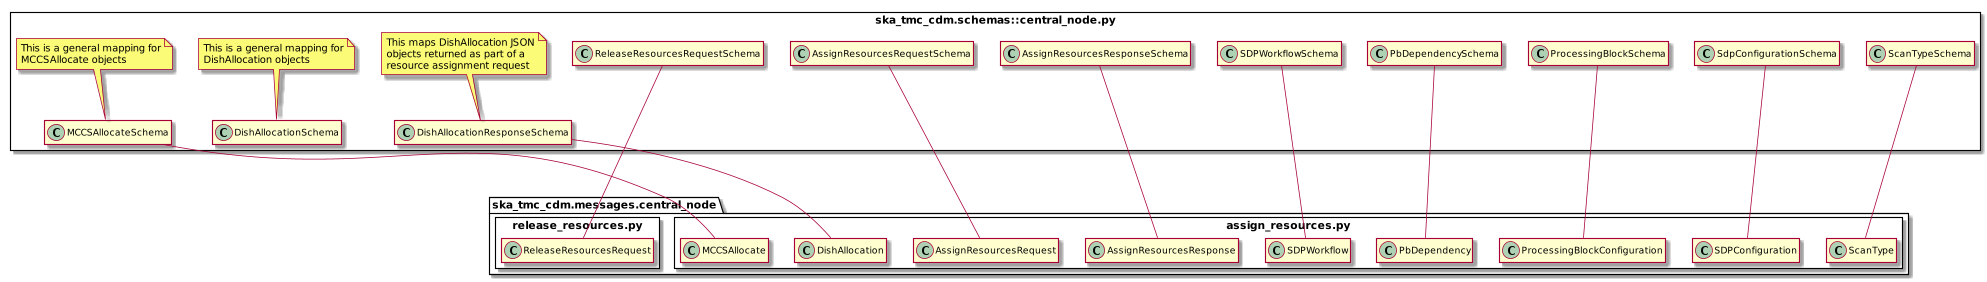
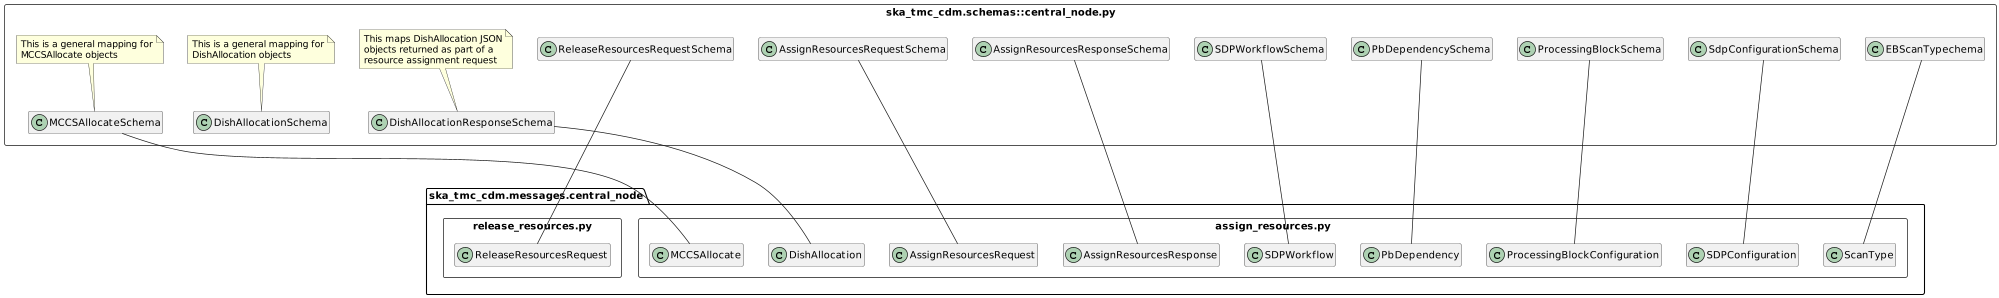
NAK-111 Renamed ScanTypes to EBScanType and ScanTypesBeams to EBScanTypeBeams

diff --git a/src/ska_tmc_cdm/schemas/central_node/sdp.py b/src/ska_tmc_cdm/schemas/central_node/sdp.py
@@ -10,6 +10,8 @@ from ska_tmc_cdm.messages.central_node.sdp import (
     BeamConfiguration,
     Channel,
     ChannelConfiguration,
+    EBScanType,
+    EBScanTypeBeams,
     ExecutionBlockConfiguration,
     FieldConfiguration,
     PbDependency,
@@ -18,8 +20,6 @@ from ska_tmc_cdm.messages.central_node.sdp import (
     ProcessingBlockConfiguration,
     ResourceConfiguration,
     ScanType,
-    ScanTypes,
-    ScanTypesBeams,
     ScriptConfiguration,
     SDPConfiguration,
     SDPWorkflow,
@@ -27,7 +27,7 @@ from ska_tmc_cdm.messages.central_node.sdp import (
 from ska_tmc_cdm.schemas import CODEC
 
 __all__ = [
-    "ScanTypeSchema",
+    "EBScanTypechema",
     "SDPWorkflowSchema",
     "PbDependencySchema",
     "ChannelSchema",
@@ -41,8 +41,8 @@ __all__ = [
     "PhaseDirSchema",
     "ResourceConfigurationSchema",
     "ScriptConfigurationSchema",
-    "ScanTypesBeamsSchema",
-    "ScanTypesSchema",
+    "EBScanTypeBeamsSchema",
+    "EBScanTypeSchema",
 ]
 
 
@@ -91,7 +91,7 @@ class ChannelSchema(Schema):
         )
 
 
-class ScanTypeSchema(Schema):
+class EBScanTypechema(Schema):
     """
     Marshmallow schema for the ScanType class.
     """
@@ -436,9 +436,9 @@ class FieldConfigurationSchema(Schema):
         return FieldConfiguration(**data)
 
 
-class ScanTypesBeamsSchema(Schema):
+class EBScanTypeBeamsSchema(Schema):
     """
-    Marsmallow class for the ScanTypesBeams class
+    Marsmallow class for the EBScanTypeBeams class
     """
 
     field_id = fields.String()
@@ -457,7 +457,7 @@ class ScanTypesBeamsSchema(Schema):
         return {k: v for k, v in data.items() if v is not None}
 
     @post_load
-    def create_scantypesbeams_config(self, data, **_):  # pylint: disable=no-self-use
+    def create_EBScanTypebeams_config(self, data, **_):  # pylint: disable=no-self-use
         """
         Convert parsed JSON back into a ExecutionBlockConfiguration object.
 
@@ -465,17 +465,17 @@ class ScanTypesBeamsSchema(Schema):
         :param _: kwargs passed by Marshmallow
         :return: SDPConfiguration object populated from data
         """
-        return ScanTypesBeams(**data)
+        return EBScanTypeBeams(**data)
 
 
-class ScanTypesSchema(Schema):
+class EBScanTypeSchema(Schema):
     """
-    Marsmallow class for the ScanTypesBeams class
+    Marsmallow class for the EBScanTypeBeams class
     """
 
     scan_type_id = fields.String()
     beams = fields.Dict(
-        keys=fields.String(), values=fields.Nested(ScanTypesBeamsSchema)
+        keys=fields.String(), values=fields.Nested(EBScanTypeBeamsSchema)
     )
     derive_from = fields.String()
 
@@ -492,7 +492,7 @@ class ScanTypesSchema(Schema):
         return {k: v for k, v in data.items() if v is not None}
 
     @post_load
-    def create_scantypes_config(self, data, **_):  # pylint: disable=no-self-use
+    def create_EBScanType_config(self, data, **_):  # pylint: disable=no-self-use
         """
         Convert parsed JSON back into a ExecutionBlockConfiguration object.
 
@@ -501,7 +501,7 @@ class ScanTypesSchema(Schema):
         :return: SDPConfiguration object populated from data
         """
 
-        return ScanTypes(**data)
+        return EBScanType(**data)
 
 
 class ExecutionBlockConfigurationSchema(Schema):
@@ -515,7 +515,7 @@ class ExecutionBlockConfigurationSchema(Schema):
     beams = fields.List(fields.Nested(BeamConfigurationSchema))
     channels = fields.List(fields.Nested(ChannelConfigurationSchema))
     polarisations = fields.List(fields.Nested(PolarisationConfigurationSchema))
-    scan_types = fields.List(fields.Nested(ScanTypesSchema))
+    scan_types = fields.List(fields.Nested(EBScanTypeSchema))
     fields = fields.List(fields.Nested(FieldConfigurationSchema))
 
     @post_dump
@@ -552,7 +552,7 @@ class SDPConfigurationSchema(Schema):
 
     eb_id = fields.String(data_key="eb_id")
     max_length = fields.Float(data_key="max_length")
-    scan_types = fields.Nested(ScanTypeSchema, many=True)
+    scan_types = fields.Nested(EBScanTypechema, many=True)
     processing_blocks = fields.Nested(ProcessingBlockSchema, many=True)
     resources = fields.Nested(ResourceConfigurationSchema)
 

diff --git a/tests/unit/ska_tmc_cdm/messages/central_node/test_sdp.py b/tests/unit/ska_tmc_cdm/messages/central_node/test_sdp.py
@@ -6,6 +6,8 @@ from ska_tmc_cdm.messages.central_node.sdp import (
     BeamConfiguration,
     Channel,
     ChannelConfiguration,
+    EBScanType,
+    EBScanTypeBeams,
     FieldConfiguration,
     PbDependency,
     PhaseDir,
@@ -13,8 +15,6 @@ from ska_tmc_cdm.messages.central_node.sdp import (
     ProcessingBlockConfiguration,
     ResourceConfiguration,
     ScanType,
-    ScanTypes,
-    ScanTypesBeams,
     ScriptConfiguration,
     SDPConfiguration,
     SDPWorkflow,
@@ -534,60 +534,60 @@ def test_resource_equals_not_equal_to_other_objects():
     assert resource != 1
 
 
-def test_scantypes_equals():
+def test_EBScanType_equals():
     """
-    Verify that ScanTypes objects are considered equal when they have:
+    Verify that EBScanType objects are considered equal when they have:
      - the same scan_type_id
      - the same beams
      - the same derive_from
     """
-    scantypes1 = ScanTypes("science", {"vis0": {"field_id": "field_a"}}, ".default")
-    scantypes2 = ScanTypes("science", {"vis0": {"field_id": "field_a"}}, ".default")
+    EBScanType1 = EBScanType("science", {"vis0": {"field_id": "field_a"}}, ".default")
+    EBScanType2 = EBScanType("science", {"vis0": {"field_id": "field_a"}}, ".default")
 
-    assert scantypes1 == scantypes2
+    assert EBScanType1 == EBScanType2
 
-    assert scantypes1 != ScanTypes(
+    assert EBScanType1 != EBScanType(
         "calibration", {"vis0": {"field_id": "field_a"}}, ".default"
     )
-    assert scantypes2 != ScanTypes(
+    assert EBScanType2 != EBScanType(
         "calibration", {"vis0": {"field_id": "field_a"}}, ".default"
     )
 
 
-def test_scantypes_equals_not_equal_to_other_objects():
+def test_EBScanType_equals_not_equal_to_other_objects():
 
     """
-    Verify that ScanTypes objects are not considered equal to objects of
+    Verify that EBScanType objects are not considered equal to objects of
     other types.
     """
-    scantypes = ScanTypes("science", {"vis0": {"field_id": "field_a"}}, ".default")
-    assert scantypes != 1
+    ebscantype = EBScanType("science", {"vis0": {"field_id": "field_a"}}, ".default")
+    assert ebscantype != 1
 
 
-def test_scantypesbeams_equals():
+def test_EBScanTypebeams_equals():
     """
-    Verify that ScanTypesBeams objects are considered equal when they have:
+    Verify that EBScanTypeBeams objects are considered equal when they have:
      - the same field_id
      - the same channels_id
      - the same polarisations_id
     """
-    scantypesbeams1 = ScanTypesBeams("science-target", "vis_channels", "all")
-    scantypesbeams2 = ScanTypesBeams("science-target", "vis_channels", "all")
+    EBScanTypebeams1 = EBScanTypeBeams("science-target", "vis_channels", "all")
+    EBScanTypebeams2 = EBScanTypeBeams("science-target", "vis_channels", "all")
 
-    assert scantypesbeams1 == scantypesbeams2
+    assert EBScanTypebeams1 == EBScanTypebeams2
 
-    assert scantypesbeams1 != ScanTypesBeams("pks1934-638", "vis_channels", "all")
-    assert scantypesbeams2 != ScanTypesBeams("pks1934-638", "vis_channels", "all")
+    assert EBScanTypebeams1 != EBScanTypeBeams("pks1934-638", "vis_channels", "all")
+    assert EBScanTypebeams2 != EBScanTypeBeams("pks1934-638", "vis_channels", "all")
 
 
-def test_scantypesbeams_equals_not_equal_to_other_objects():
+def test_EBScanTypebeams_equals_not_equal_to_other_objects():
 
     """
-    Verify that ScanTypesBeams objects are not considered equal to objects of
+    Verify that EBScanTypeBeams objects are not considered equal to objects of
     other types.
     """
-    scantypesbeams = ScanTypesBeams("science-target", "vis_channels", "all")
-    assert scantypesbeams != 1
+    EBScanTypebeams = EBScanTypeBeams("science-target", "vis_channels", "all")
+    assert EBScanTypebeams != 1
 
 
 def test_script_equals():

diff --git a/src/ska_tmc_cdm/messages/central_node/sdp.py b/src/ska_tmc_cdm/messages/central_node/sdp.py
@@ -20,8 +20,8 @@ __all__ = [
     "ExecutionBlockConfiguration",
     "ResourceConfiguration",
     "ScriptConfiguration",
-    "ScanTypesBeams",
-    "ScanTypes",
+    "EBScanTypeBeams",
+    "EBScanType",
 ]
 
 
@@ -395,9 +395,9 @@ class FieldConfiguration:
         )
 
 
-class ScanTypesBeams:
+class EBScanTypeBeams:
     """
-    Class to hold ScanTypesBeams configuration
+    Class to hold EBScanTypeBeams configuration
     """
 
     def __init__(
@@ -407,7 +407,7 @@ class ScanTypesBeams:
         polarisations_id: str = None,
     ) -> object:
         """
-        Create a new ScanTypesBeams object.
+        Create a new EBScanTypeBeams object.
 
         :param field_id: field_id
         :param channels_id: channels_id
@@ -418,7 +418,7 @@ class ScanTypesBeams:
         self.polarisations_id = polarisations_id
 
     def __eq__(self, other):
-        if not isinstance(other, ScanTypesBeams):
+        if not isinstance(other, EBScanTypeBeams):
             return False
         return (
             self.field_id == other.field_id
@@ -427,16 +427,16 @@ class ScanTypesBeams:
         )
 
 
-class ScanTypes:
+class EBScanType:
     """
-    Class to hold ScanTypes configuration
+    Class to hold EBScanType configuration
     """
 
     def __init__(
         self, scan_type_id: str = None, beams: Dict = None, derive_from: str = None
     ) -> object:
         """
-        Create a new ScanTypes object.
+        Create a new EBScanType object.
 
         :param scan_type_id: scan_type_id
         :param beams: Beam parameters for the purpose of the Science Data Processor.
@@ -447,7 +447,7 @@ class ScanTypes:
         self.derive_from = derive_from
 
     def __eq__(self, other):
-        if not isinstance(other, ScanTypes):
+        if not isinstance(other, EBScanType):
             return False
         return (
             self.scan_type_id == other.scan_type_id
@@ -470,7 +470,7 @@ class ExecutionBlockConfiguration:
         channels: List[ChannelConfiguration] = None,
         polarisations: List[PolarisationConfiguration] = None,
         fields: List[FieldConfiguration] = None,
-        scan_types: List[ScanTypes] = None,
+        scan_types: List[EBScanType] = None,
     ) -> object:
         """
         Create a new ExecutionBlockConfiguration object.

diff --git a/tests/unit/ska_tmc_cdm/schemas/central_node/test_sdp.py b/tests/unit/ska_tmc_cdm/schemas/central_node/test_sdp.py
@@ -1,13 +1,13 @@
 from ska_tmc_cdm.schemas.central_node.sdp import (
     BeamConfigurationSchema,
     ChannelConfigurationSchema,
+    EBScanTypeBeamsSchema,
+    EBScanTypeSchema,
     ExecutionBlockConfigurationSchema,
     FieldConfigurationSchema,
     PolarisationConfigurationSchema,
     ProcessingBlockSchema,
     ResourceConfigurationSchema,
-    ScanTypesBeamsSchema,
-    ScanTypesSchema,
     SDPConfigurationSchema,
 )
 from ska_tmc_cdm.utils import assert_json_is_equal
@@ -864,20 +864,20 @@ def test_validate_serialization_and_deserialization_sdp_minimal_parameters_using
 
 def test_validate_serialization_and_deserialization_scan_types_using_schema_class():
     """
-    Verifies that the ScanTypes schema marshal and Unmarshal works correctly
+    Verifies that the EBScanType schema marshal and Unmarshal works correctly
     """
-    scan_types_config = ScanTypesSchema(many=True).loads(VALID_SCAN_TYPES_JSON_PI16)
-    serialized_scan_types_config = ScanTypesSchema(many=True).dumps(scan_types_config)
+    scan_types_config = EBScanTypeSchema(many=True).loads(VALID_SCAN_TYPES_JSON_PI16)
+    serialized_scan_types_config = EBScanTypeSchema(many=True).dumps(scan_types_config)
 
     assert_json_is_equal(VALID_SCAN_TYPES_JSON_PI16, serialized_scan_types_config)
 
 
 def test_validate_serialization_and_deserialization_beams_vis0_using_schema_class():
     """
-    Verifies that the ScanTypes Beams schema marshal and Unmarshal works correctly
+    Verifies that the EBScanType Beams schema marshal and Unmarshal works correctly
     """
-    scan_types_beams_config = ScanTypesBeamsSchema().loads(VALID_BEAMS_VIS0_JSON_PI16)
-    serialized_scan_types_beams_config = ScanTypesBeamsSchema().dumps(
+    scan_types_beams_config = EBScanTypeBeamsSchema().loads(VALID_BEAMS_VIS0_JSON_PI16)
+    serialized_scan_types_beams_config = EBScanTypeBeamsSchema().dumps(
         scan_types_beams_config
     )
 
